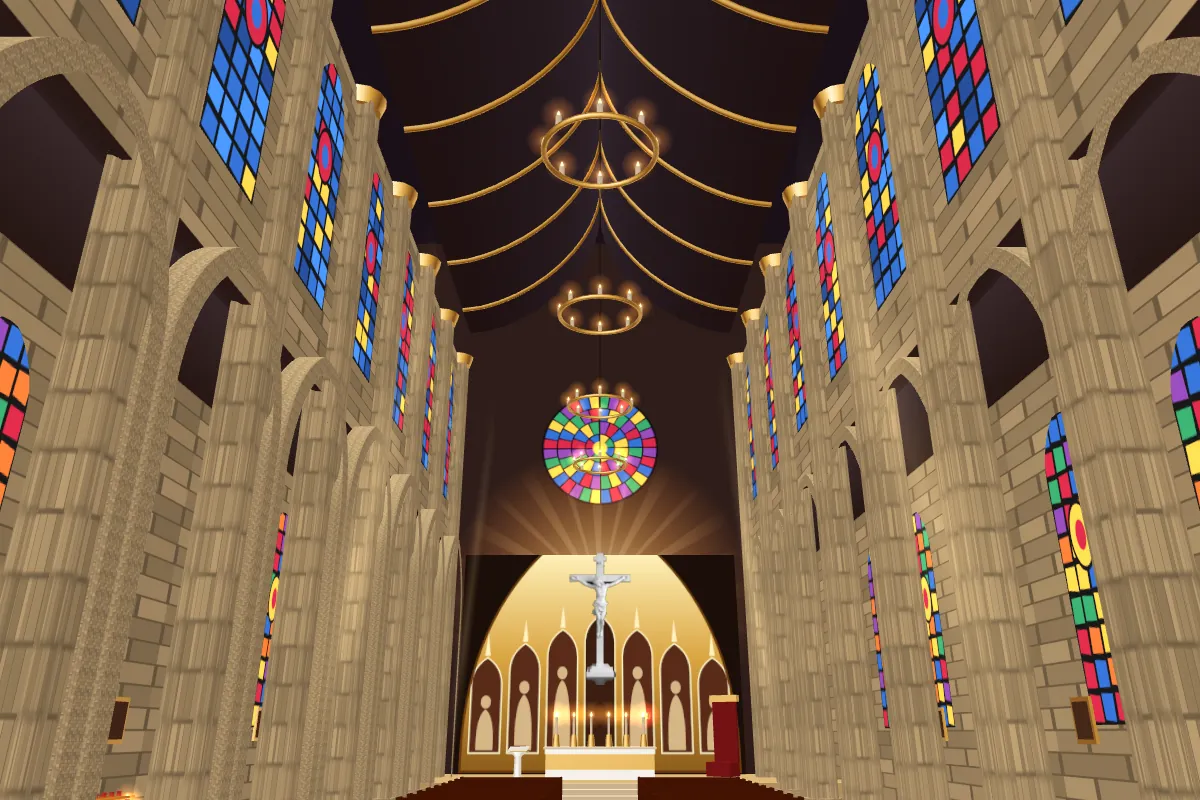
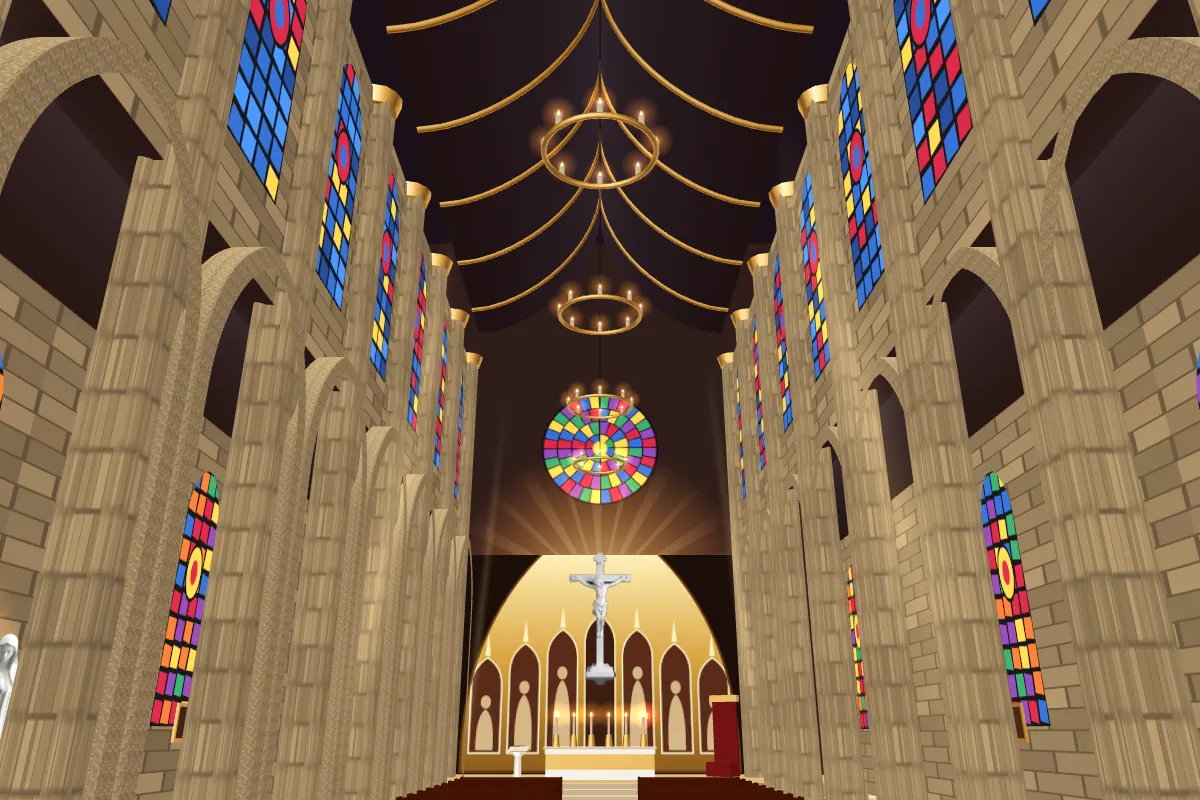
교회·성당 공간 크기를 원래보다 약 30%만 키움(앞서 2배 → 30%), 배포 스크립트·패키지 이름을 mideobogga로 통일
Claude-Session: https://claude.ai/code/session_01TJUsTByDCEcfZsEYPpK4HM

diff --git a/src/worlds/christian/three.ts b/src/worlds/christian/three.ts
@@ -135,7 +135,7 @@ export function buildTraditional(ctx: BuildCtx): Built {
 /** 현대 교회: 밝은 자연광, 참나무, 천창 빛이 떨어지는 나무 십자가, 곡선 의자, 피아노와 낮은 강단 (공연장 느낌 없이) */
 export function buildModern(ctx: BuildCtx): Built {
   const { scene, high } = ctx
-  const W = 28, Z0 = -22, Z1 = 28, H = 15
+  const W = 26, Z0 = -22, Z1 = 22, H = 14
   scene.background = new THREE.Color('#e8e4dc')
   scene.fog = new THREE.Fog('#efe9df', 40, 90)
   scene.add(new THREE.HemisphereLight(0xffffff, 0xb8a890, 2.6))
@@ -230,7 +230,7 @@ export function buildModern(ctx: BuildCtx): Built {
   const people: Parameters<BuildCtx['crowd']>[0] = []
   let pi = 0
   const x0 = 1.0, x1 = W / 2 - 1.6, len = x1 - x0
-  for (let r = 0; r < 17; r++) {
+  for (let r = 0; r < 15; r++) {
     const z = pZ + 5 + r * 1.45
     for (const side of [-1, 1]) {
       const xc = side * (x0 + len / 2)
@@ -248,7 +248,7 @@ export function buildModern(ctx: BuildCtx): Built {
       ctx.block({ x0: xc - len / 2 - 0.05, z0: z - 0.3, x1: xc + len / 2 + 0.05, z1: z + 0.3 })
       for (let k = 0; k < 10; k++) {
         const x = side * (x0 + 0.4 + k * ((len - 0.8) / 9))
-        if ((r * 7 + k + (side > 0 ? 3 : 0)) % 4 !== 0 && r < 16) people.push({ x, z: z - 0.03, y: 0.45, yaw: Math.PI, look: visitorLook('christian', pi++) })
+        if ((r * 7 + k + (side > 0 ? 3 : 0)) % 4 !== 0 && r < 14) people.push({ x, z: z - 0.03, y: 0.45, yaw: Math.PI, look: visitorLook('christian', pi++) })
         else ctx.seat(x, z - 0.03, 0.45, Math.PI)
       }
     }

diff --git a/src/worlds/catholic/three.ts b/src/worlds/catholic/three.ts
@@ -248,7 +248,7 @@ export function buildParish(ctx: BuildCtx): Built {
   const { scene } = ctx
   scene.background = new THREE.Color('#1a1512')
   scene.fog = new THREE.Fog('#1a1512', 30, 60)
-  const W = 16, Z0 = -18, Z1 = 22
+  const W = 14, Z0 = -18, Z1 = 13
   const L = Z1 - Z0
   const floor = new THREE.Mesh(new THREE.PlaneGeometry(W, L), std('#aaa', { map: marble('#d8d0c2', '#a89c86', [4, 8]), roughness: 0.4 }))
   floor.rotation.x = -Math.PI / 2

diff --git a/src/worlds/catholic/cathedral.ts b/src/worlds/catholic/cathedral.ts
@@ -46,7 +46,7 @@ const floorTexture = () =>
 /** 고딕 대성당 (PujaTime 사원 홀과 같은 방식: 밝은 재질 색 + 빛 번짐 + 금장식 + 앉아 있는 신자들) */
 export function buildCathedral(ctx: BuildCtx): Built {
   const { scene, high } = ctx
-  const W = 22, Z0 = -34, Z1 = 34, NAVE = 15
+  const W = 23, Z0 = -34, Z1 = 23, NAVE = 14
   const env = brassEnv()
   const gold = brass(env)
   const marble = marbleEnv()

diff --git a/src/worlds/christian/church.ts b/src/worlds/christian/church.ts
@@ -72,7 +72,7 @@ const wainscot = () =>
  */
 export function buildChurch(ctx: BuildCtx): Built {
   const { scene, high } = ctx
-  const W = 32, Z0 = -34, Z1 = 40, H = 22
+  const W = 31, Z0 = -34, Z1 = 26, H = 22
   const GAL = 4.2 // 갤러리 깊이
   const GY = 5.4 // 갤러리 바닥 높이
   const env = brassEnv()
